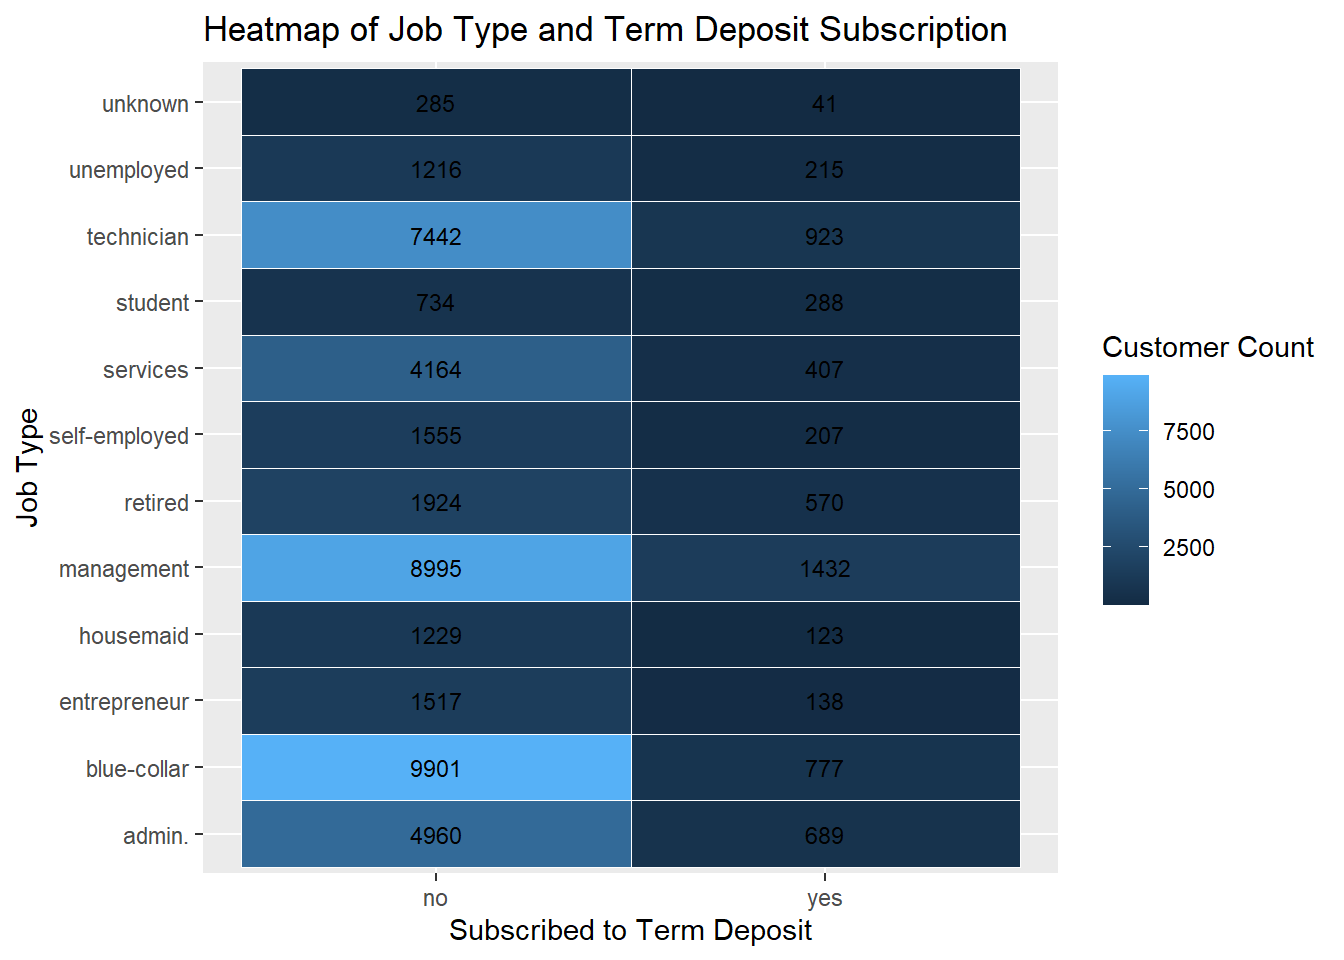
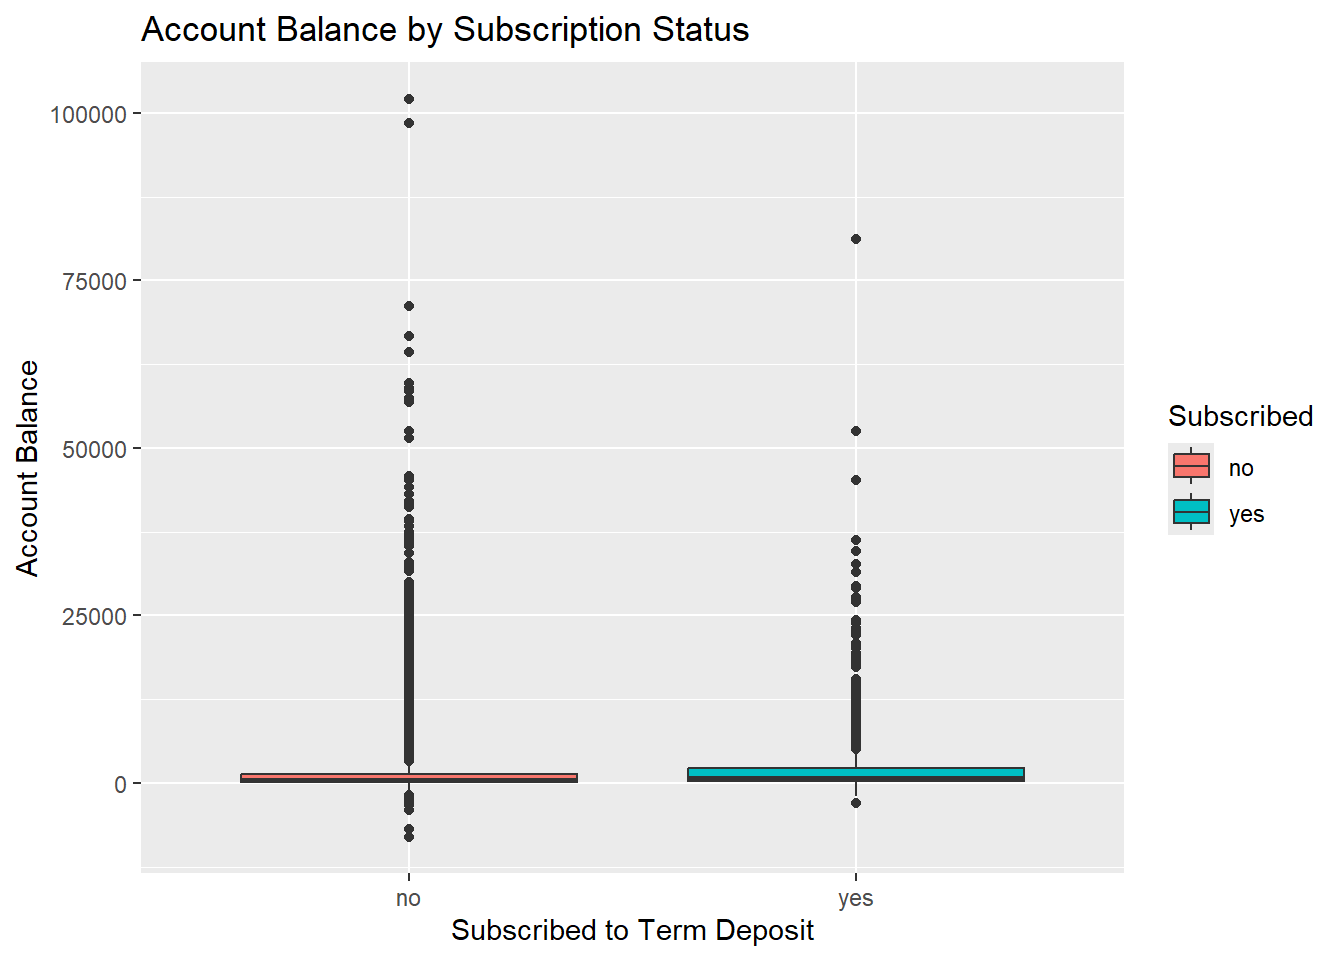
Commentary added to qmd file.

diff --git a/docs/Project2.html b/docs/Project2.html
@@ -6,6 +6,7 @@
 
 <meta name="viewport" content="width=device-width, initial-scale=1.0, user-scalable=yes">
 
+<meta name="author" content="Ralph Church">
 
 <title>Project2</title>
 <style>
@@ -125,6 +126,12 @@ pre > code.sourceCode > span > a:first-child::before { text-decoration: underlin
 
 <div class="quarto-title-meta">
 
+    <div>
+    <div class="quarto-title-meta-heading">Author</div>
+    <div class="quarto-title-meta-contents">
+             <p>Ralph Church </p>
+          </div>
+  </div>
     
   
     
@@ -162,6 +169,10 @@ Attaching package: 'dplyr'</code></pre>
 <pre><code>Warning: package 'ggplot2' was built under R version 4.5.3</code></pre>
 </div>
 </div>
+</section>
+<section id="loading-the-data" class="level3">
+<h3 class="anchored" data-anchor-id="loading-the-data">Loading the data</h3>
+<p>Fields are also converted to factors where necessary.</p>
 <div class="cell">
 <div class="sourceCode cell-code" id="cb8"><pre class="sourceCode r code-with-copy"><code class="sourceCode r"><span id="cb8-1"><a href="#cb8-1" aria-hidden="true" tabindex="-1"></a>bank_train <span class="ot">&lt;-</span> <span class="fu">read_delim</span>(</span>
 <span id="cb8-2"><a href="#cb8-2" aria-hidden="true" tabindex="-1"></a>  <span class="st">"data/train.csv"</span>,</span>
@@ -331,6 +342,7 @@ $ y         &lt;fct&gt; no, no, no, no, no, no, no, no, no, no, no, no, no, no, 
 </section>
 <section id="plot-1-bar-chart" class="level3">
 <h3 class="anchored" data-anchor-id="plot-1-bar-chart">Plot 1: Bar Chart</h3>
+<p>This bar chart shows the number of customers who did and did not subscribe to the term deposit.</p>
 <div class="cell">
 <div class="sourceCode cell-code" id="cb22"><pre class="sourceCode r code-with-copy"><code class="sourceCode r"><span id="cb22-1"><a href="#cb22-1" aria-hidden="true" tabindex="-1"></a><span class="fu">ggplot</span>(bank, <span class="fu">aes</span>(<span class="at">x =</span> y)) <span class="sc">+</span></span>
 <span id="cb22-2"><a href="#cb22-2" aria-hidden="true" tabindex="-1"></a>  <span class="fu">geom_bar</span>() <span class="sc">+</span></span>
@@ -347,9 +359,11 @@ $ y         &lt;fct&gt; no, no, no, no, no, no, no, no, no, no, no, no, no, no, 
 </div>
 </div>
 </div>
+<p>Most customers did not subscribe to the term deposit. Only a small portion of customers chose to subscribe.</p>
 </section>
 <section id="plot-2-side-by-side-bar-chart" class="level3">
 <h3 class="anchored" data-anchor-id="plot-2-side-by-side-bar-chart">Plot 2: Side-by-side bar chart</h3>
+<p>This bar chart compares customers with and without a housing loan based on whether they subscribed to the term deposit.</p>
 <div class="cell">
 <div class="sourceCode cell-code" id="cb23"><pre class="sourceCode r code-with-copy"><code class="sourceCode r"><span id="cb23-1"><a href="#cb23-1" aria-hidden="true" tabindex="-1"></a><span class="fu">ggplot</span>(bank, <span class="fu">aes</span>(<span class="at">x =</span> housing, <span class="at">fill =</span> y)) <span class="sc">+</span></span>
 <span id="cb23-2"><a href="#cb23-2" aria-hidden="true" tabindex="-1"></a>  <span class="fu">geom_bar</span>(<span class="at">position =</span> <span class="st">"dodge"</span>) <span class="sc">+</span></span>
@@ -367,9 +381,11 @@ $ y         &lt;fct&gt; no, no, no, no, no, no, no, no, no, no, no, no, no, no, 
 </div>
 </div>
 </div>
+<p>Most customers did not subscribe, regardless of housing loan status. Customers without a housing loan appear slightly more likely to subscribe than those with a housing loan.</p>
 </section>
 <section id="plot-3-histogram" class="level3">
 <h3 class="anchored" data-anchor-id="plot-3-histogram">Plot 3: Histogram</h3>
+<p>This histogram shows the distribution of customer ages. The bars are colored based on whether the customer subscribed to the term deposit.</p>
 <div class="cell">
 <div class="sourceCode cell-code" id="cb24"><pre class="sourceCode r code-with-copy"><code class="sourceCode r"><span id="cb24-1"><a href="#cb24-1" aria-hidden="true" tabindex="-1"></a><span class="fu">ggplot</span>(bank, <span class="fu">aes</span>(<span class="at">x =</span> age, <span class="at">fill =</span> y)) <span class="sc">+</span></span>
 <span id="cb24-2"><a href="#cb24-2" aria-hidden="true" tabindex="-1"></a>  <span class="fu">geom_histogram</span>(<span class="at">binwidth =</span> <span class="dv">5</span>, <span class="at">color =</span> <span class="st">"white"</span>) <span class="sc">+</span></span>
@@ -387,9 +403,11 @@ $ y         &lt;fct&gt; no, no, no, no, no, no, no, no, no, no, no, no, no, no, 
 </div>
 </div>
 </div>
+<p>Most customers are between 30 and 50 years old. Across all age groups, more customers did not subscribe than those who did.</p>
 </section>
-<section id="plot-5-scatter-plot" class="level3">
-<h3 class="anchored" data-anchor-id="plot-5-scatter-plot">Plot 5: Scatter plot</h3>
+<section id="plot-4-scatter-plot" class="level3">
+<h3 class="anchored" data-anchor-id="plot-4-scatter-plot">Plot 4: Scatter plot</h3>
+<p>This scatter plot shows the relationship between a customer’s age and account balance. The points are colored by whether the customer subscribed to the term deposit.</p>
 <div class="cell">
 <div class="sourceCode cell-code" id="cb25"><pre class="sourceCode r code-with-copy"><code class="sourceCode r"><span id="cb25-1"><a href="#cb25-1" aria-hidden="true" tabindex="-1"></a><span class="fu">ggplot</span>(bank, <span class="fu">aes</span>(<span class="at">x =</span> age, <span class="at">y =</span> balance, <span class="at">color =</span> y)) <span class="sc">+</span></span>
 <span id="cb25-2"><a href="#cb25-2" aria-hidden="true" tabindex="-1"></a>  <span class="fu">geom_point</span>(<span class="at">alpha =</span> <span class="fl">0.4</span>) <span class="sc">+</span></span>
@@ -407,9 +425,55 @@ $ y         &lt;fct&gt; no, no, no, no, no, no, no, no, no, no, no, no, no, no, 
 </div>
 </div>
 </div>
+<p>There is no strong relationship between age and account balance. Most customers have relatively low balances, regardless of whether they subscribed, although a few customers have much higher balances.</p>
 </section>
-<section id="plot-not-covered-in-class-ggbeeswarm" class="level3">
-<h3 class="anchored" data-anchor-id="plot-not-covered-in-class-ggbeeswarm">Plot not covered in class: ggbeeswarm</h3>
+<section id="plot-5-box-plot" class="level3">
+<h3 class="anchored" data-anchor-id="plot-5-box-plot">Plot 5: Box Plot</h3>
+<p>This box plot compares the distribution of account balances for customers who did and did not subscribe to a term deposit. It helps identify differences in the median, spread, and potential outliers between the two groups.</p>
+<div class="cell">
+<div class="sourceCode cell-code" id="cb26"><pre class="sourceCode r code-with-copy"><code class="sourceCode r"><span id="cb26-1"><a href="#cb26-1" aria-hidden="true" tabindex="-1"></a><span class="fu">ggplot</span>(bank, <span class="fu">aes</span>(<span class="at">x =</span> y, <span class="at">y =</span> balance, <span class="at">fill =</span> y)) <span class="sc">+</span></span>
+<span id="cb26-2"><a href="#cb26-2" aria-hidden="true" tabindex="-1"></a>  <span class="fu">geom_boxplot</span>() <span class="sc">+</span></span>
+<span id="cb26-3"><a href="#cb26-3" aria-hidden="true" tabindex="-1"></a>  <span class="fu">labs</span>(</span>
+<span id="cb26-4"><a href="#cb26-4" aria-hidden="true" tabindex="-1"></a>    <span class="at">title =</span> <span class="st">"Account Balance by Subscription Status"</span>,</span>
+<span id="cb26-5"><a href="#cb26-5" aria-hidden="true" tabindex="-1"></a>    <span class="at">x =</span> <span class="st">"Subscribed to Term Deposit"</span>,</span>
+<span id="cb26-6"><a href="#cb26-6" aria-hidden="true" tabindex="-1"></a>    <span class="at">y =</span> <span class="st">"Account Balance"</span>,</span>
+<span id="cb26-7"><a href="#cb26-7" aria-hidden="true" tabindex="-1"></a>    <span class="at">fill =</span> <span class="st">"Subscribed"</span></span>
+<span id="cb26-8"><a href="#cb26-8" aria-hidden="true" tabindex="-1"></a>  )</span></code><button title="Copy to Clipboard" class="code-copy-button"><i class="bi"></i></button></pre></div>
+<div class="cell-output-display">
+<div>
+<figure class="figure">
+<p><img src="Project2_files/figure-html/unnamed-chunk-10-1.png" class="img-fluid figure-img" width="672"></p>
+</figure>
+</div>
+</div>
+</div>
+<p>The box plot shows that customers who subscribed (“yes”) generally have a slightly higher account balance than those who did not subscribe (“no”). Both groups contain many outliers, indicating that a small number of customers have unusually large account balances.</p>
+</section>
+<section id="plot-6-not-covered-in-class-heatmap" class="level3">
+<h3 class="anchored" data-anchor-id="plot-6-not-covered-in-class-heatmap">Plot 6 not covered in class: Heatmap</h3>
+<p>This heatmap shows the number of customers in each job category who did and did not subscribe to the term deposit. Darker colors represent higher customer counts.</p>
+<div class="cell">
+<div class="sourceCode cell-code" id="cb27"><pre class="sourceCode r code-with-copy"><code class="sourceCode r"><span id="cb27-1"><a href="#cb27-1" aria-hidden="true" tabindex="-1"></a>heatmap_data <span class="ot">&lt;-</span> bank <span class="sc">%&gt;%</span></span>
+<span id="cb27-2"><a href="#cb27-2" aria-hidden="true" tabindex="-1"></a>  <span class="fu">count</span>(job, y)</span>
+<span id="cb27-3"><a href="#cb27-3" aria-hidden="true" tabindex="-1"></a></span>
+<span id="cb27-4"><a href="#cb27-4" aria-hidden="true" tabindex="-1"></a><span class="fu">ggplot</span>(heatmap_data, <span class="fu">aes</span>(<span class="at">x =</span> y, <span class="at">y =</span> job, <span class="at">fill =</span> n)) <span class="sc">+</span></span>
+<span id="cb27-5"><a href="#cb27-5" aria-hidden="true" tabindex="-1"></a>  <span class="fu">geom_tile</span>(<span class="at">color =</span> <span class="st">"white"</span>) <span class="sc">+</span></span>
+<span id="cb27-6"><a href="#cb27-6" aria-hidden="true" tabindex="-1"></a>  <span class="fu">geom_text</span>(<span class="fu">aes</span>(<span class="at">label =</span> n), <span class="at">size =</span> <span class="dv">3</span>) <span class="sc">+</span></span>
+<span id="cb27-7"><a href="#cb27-7" aria-hidden="true" tabindex="-1"></a>  <span class="fu">labs</span>(</span>
+<span id="cb27-8"><a href="#cb27-8" aria-hidden="true" tabindex="-1"></a>    <span class="at">title =</span> <span class="st">"Heatmap of Job Type and Term Deposit Subscription"</span>,</span>
+<span id="cb27-9"><a href="#cb27-9" aria-hidden="true" tabindex="-1"></a>    <span class="at">x =</span> <span class="st">"Subscribed to Term Deposit"</span>,</span>
+<span id="cb27-10"><a href="#cb27-10" aria-hidden="true" tabindex="-1"></a>    <span class="at">y =</span> <span class="st">"Job Type"</span>,</span>
+<span id="cb27-11"><a href="#cb27-11" aria-hidden="true" tabindex="-1"></a>    <span class="at">fill =</span> <span class="st">"Customer Count"</span></span>
+<span id="cb27-12"><a href="#cb27-12" aria-hidden="true" tabindex="-1"></a>  )</span></code><button title="Copy to Clipboard" class="code-copy-button"><i class="bi"></i></button></pre></div>
+<div class="cell-output-display">
+<div>
+<figure class="figure">
+<p><img src="Project2_files/figure-html/unnamed-chunk-11-1.png" class="img-fluid figure-img" width="672"></p>
+</figure>
+</div>
+</div>
+</div>
+<p>Most job groups have many more customers who did not subscribe than those who did. Blue-collar, management, and technician jobs have the largest number of customers overall.</p>
 
 
 </section>